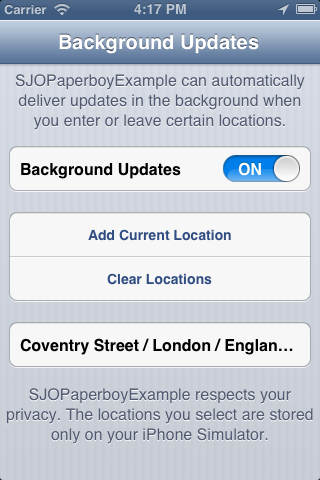
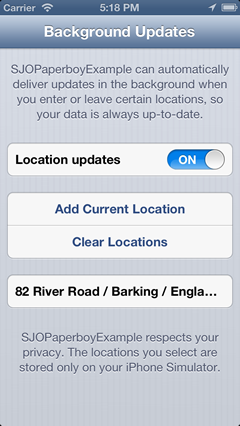
Updates README.

diff --git a/README.md b/README.md
@@ -3,15 +3,17 @@ SJOPaperboy
 An easy to use library that lets you implement background updates in your app that run 
 whenever the user enters or exits a specified location.
 
-![SJOPaperboyViewController](https://raw.github.com/blork/SJOPaperboy/master/screenshot.png)
+On iOS7 and above, an addition setting is displayed if you have the `UIBackgroundMode` `fetch` enabled in your `Info.plist`. This allows you to optionally run the new style background updates depending on the user's preference, as well as still having access to the old-style location based updates.
 
+![SJOPaperboyViewController](https://raw.github.com/blork/SJOPaperboy/master/screenshot.png)
+![SJOPaperboyViewController](https://raw.github.com/blork/SJOPaperboy/master/screenshot-ios7.png)
 
 Setup
 =====
 
 If you are using [CocoaPods](http://cocoapods.org), just add the following to your Podspec:
 ```
-pod 'SJOPaperboy', '~> 1.0.0'
+pod 'SJOPaperboy', '~> 2.0.0'
 ```
 
 Setup (without CocoaPods)
